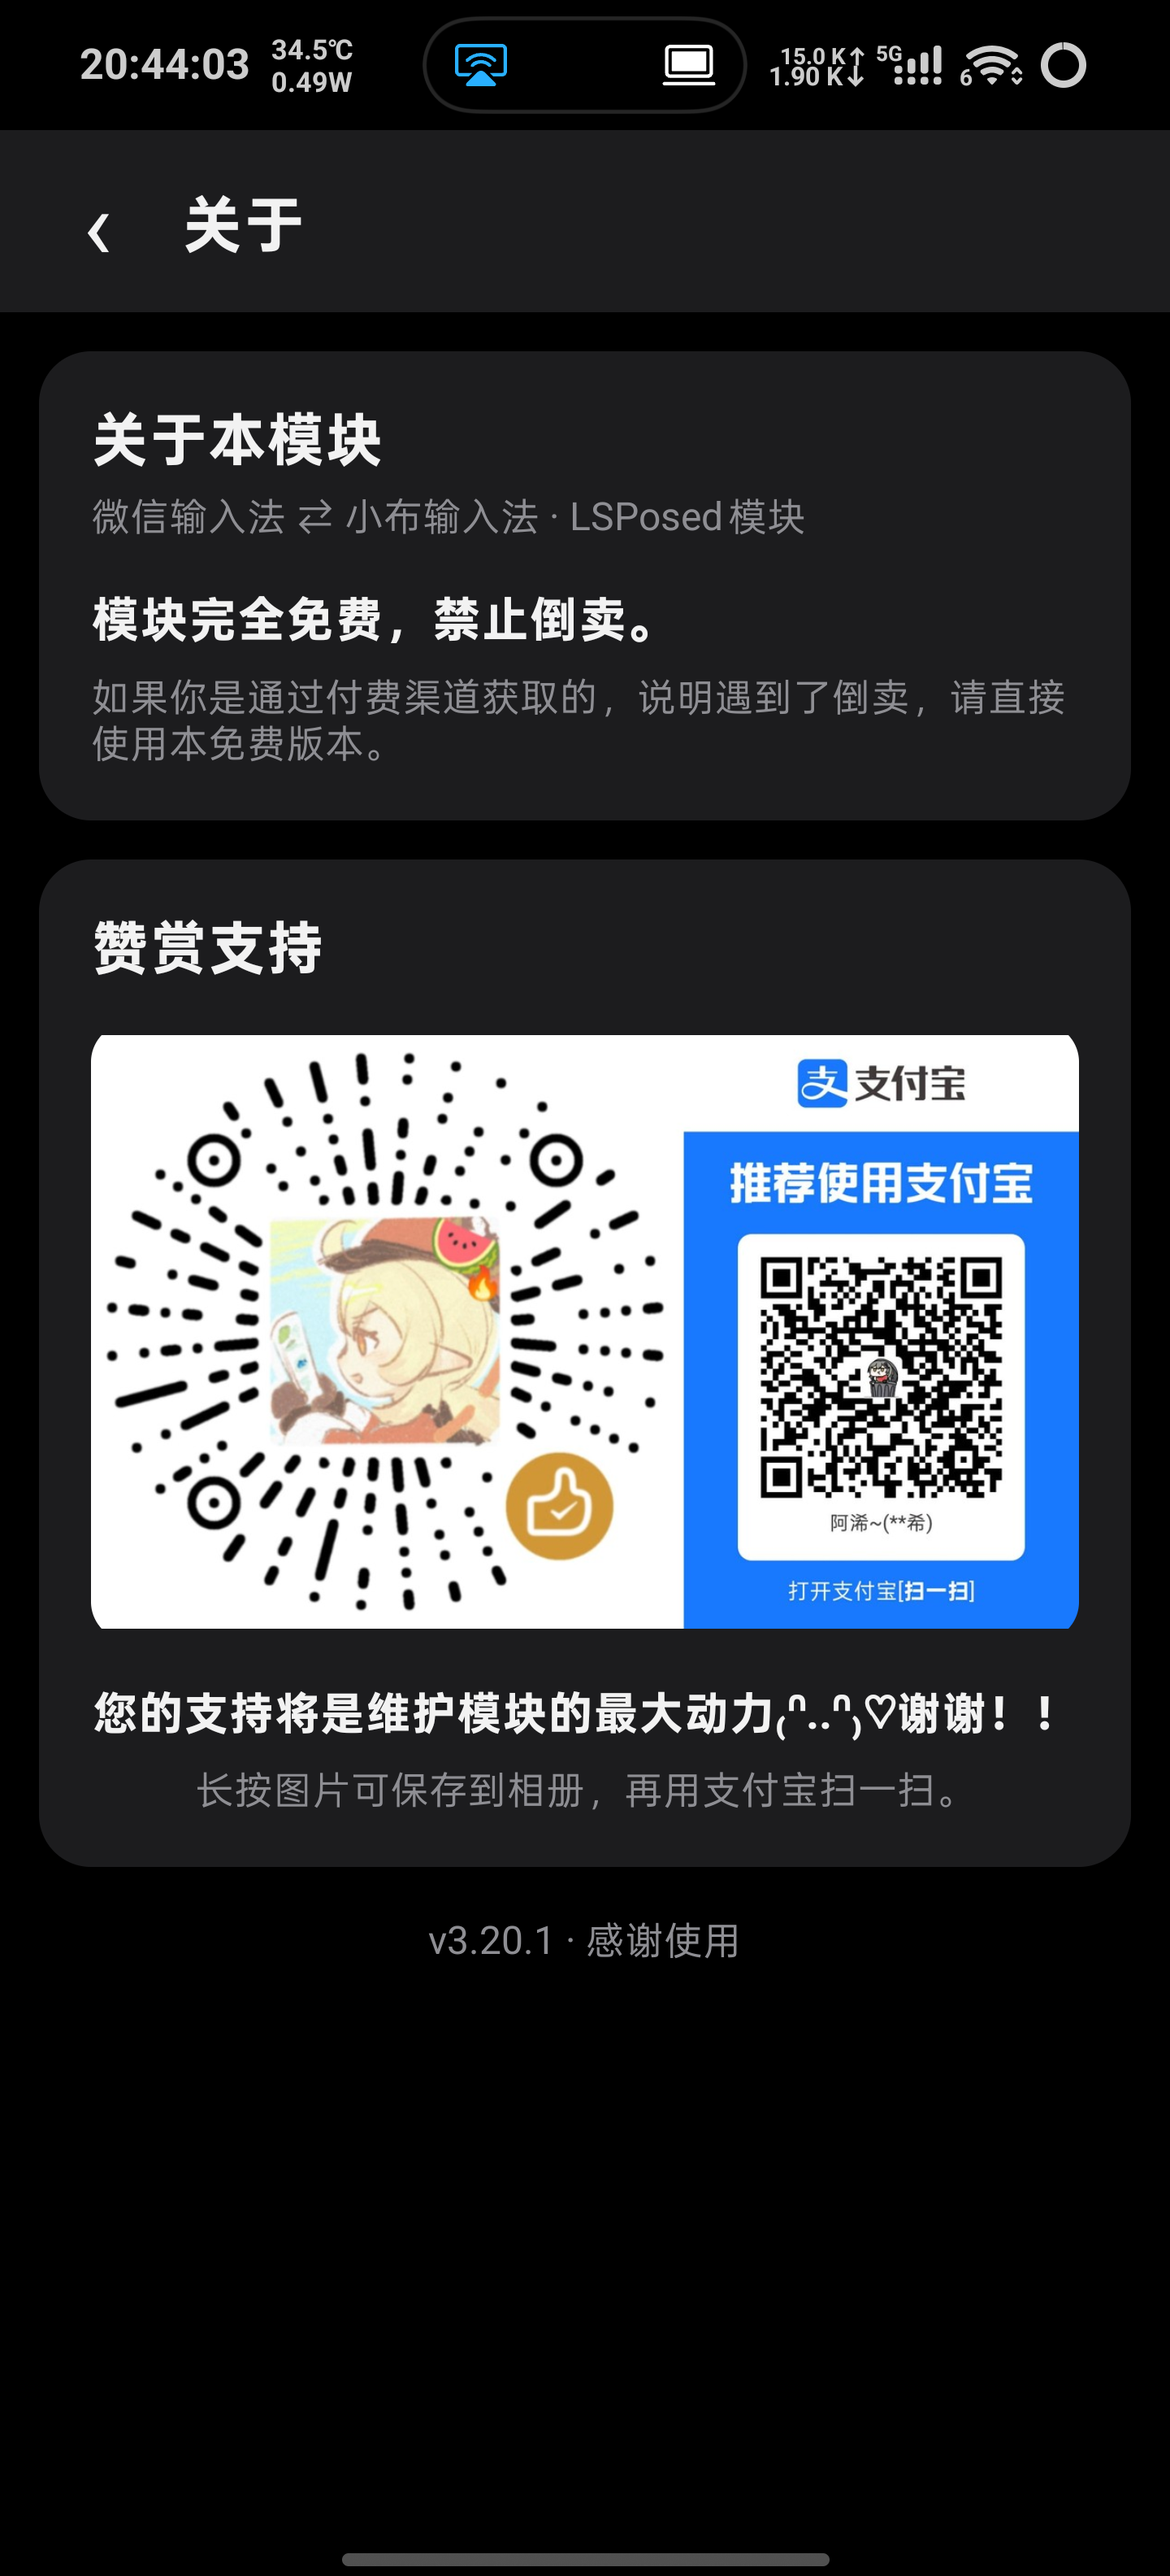
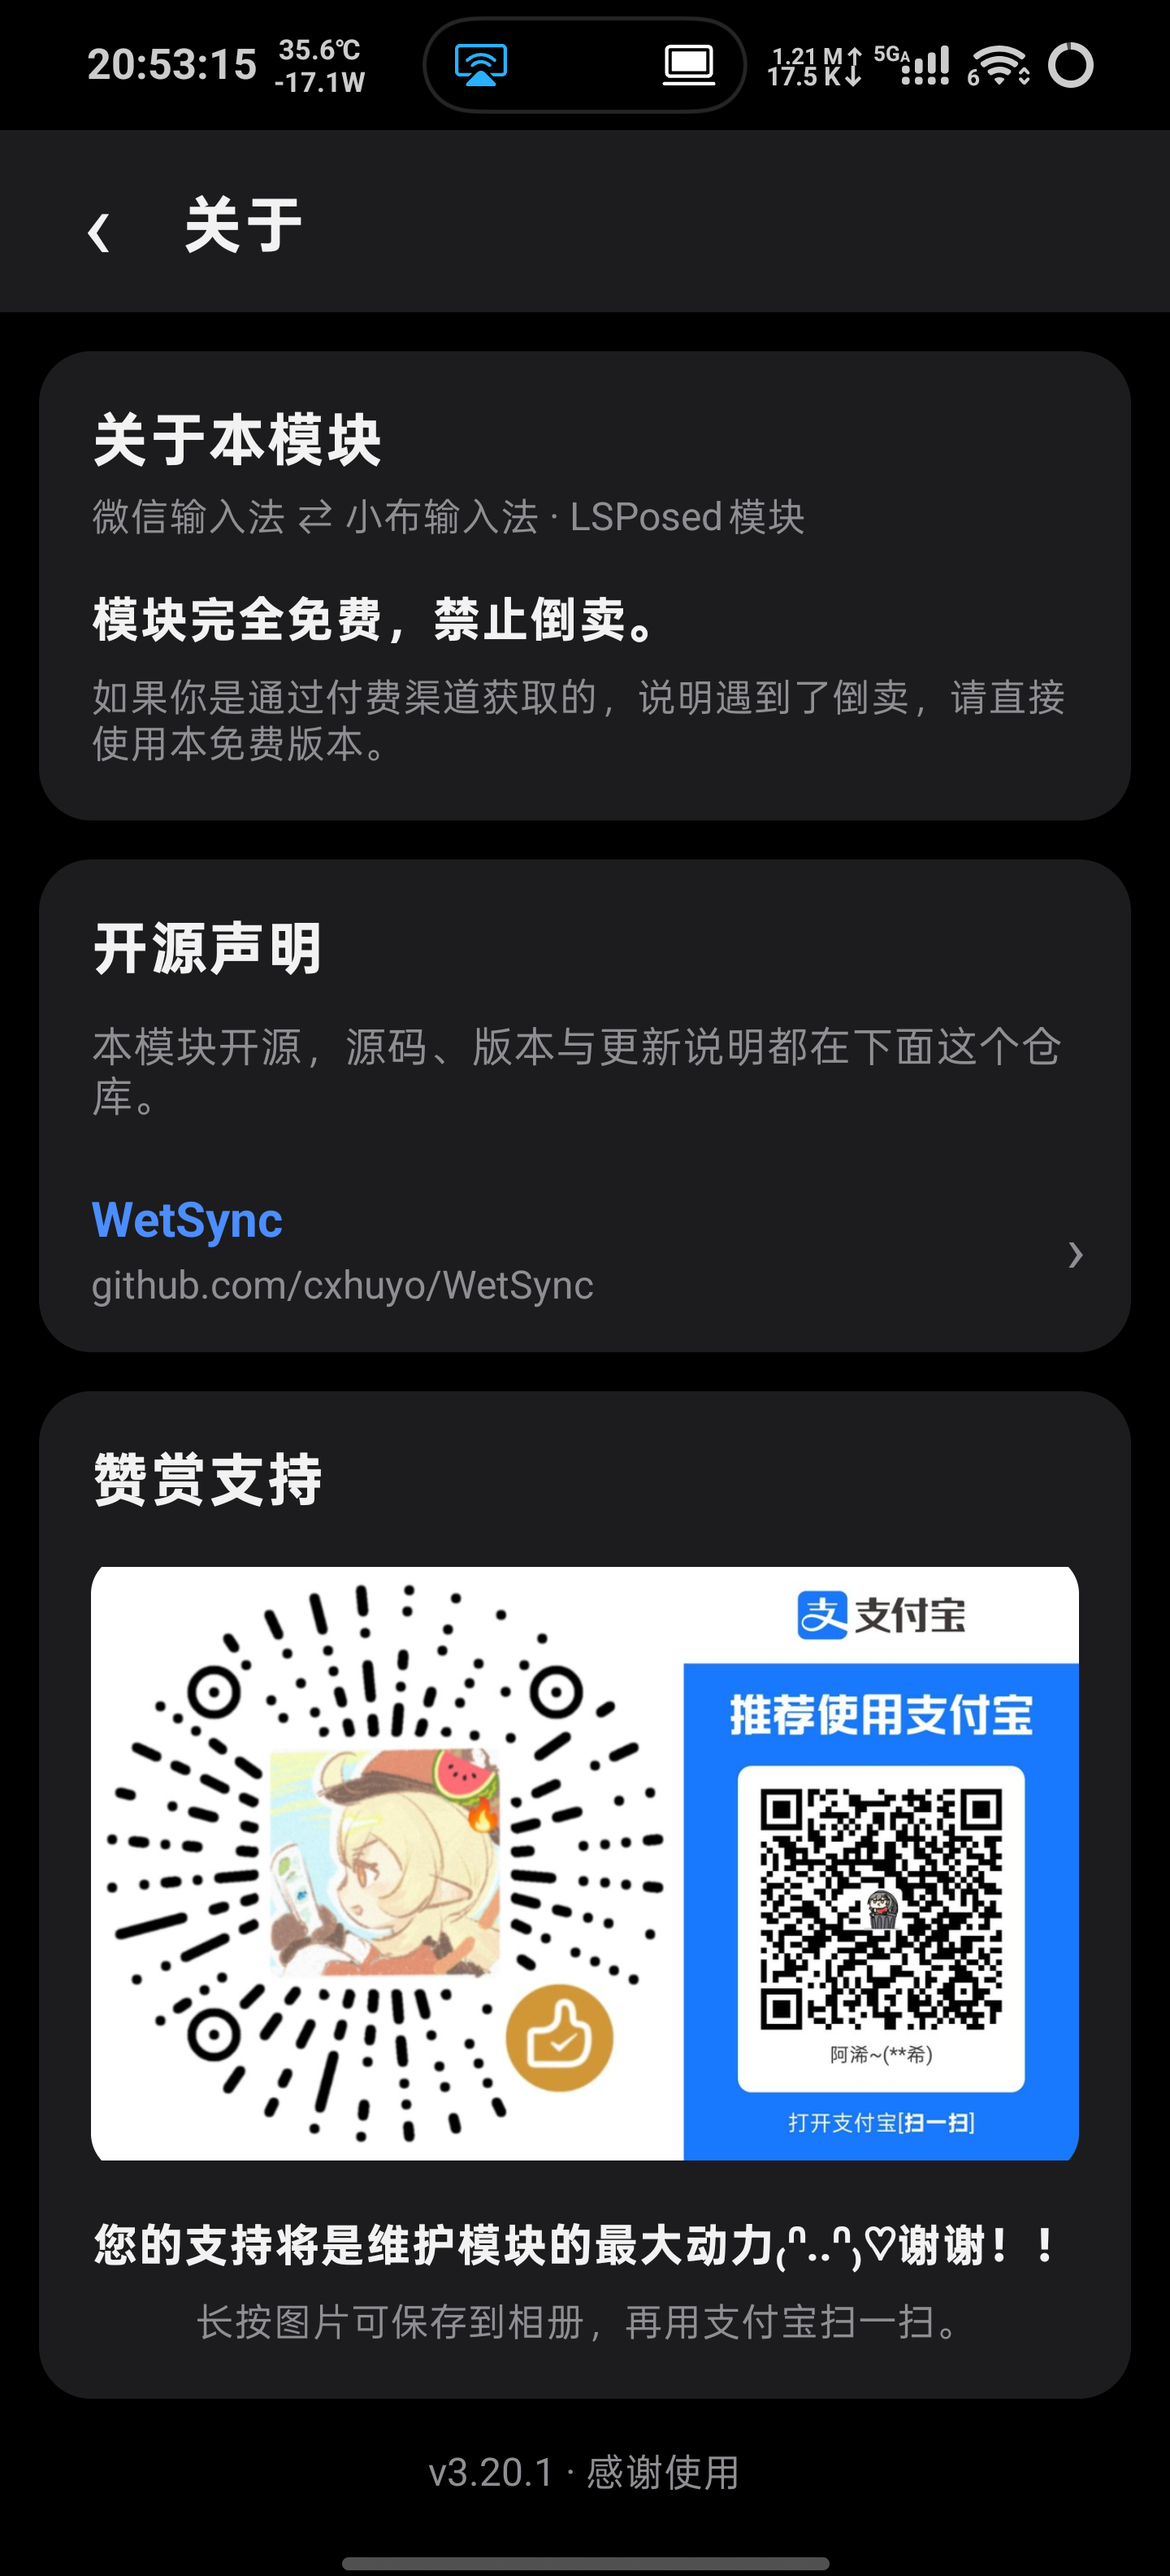
feat: 关于页补充开源声明卡片与仓库跳转，更新截图与文档

diff --git a/app/src/main/java/com/cxhuyo/wetsync/AboutActivity.java b/app/src/main/java/com/cxhuyo/wetsync/AboutActivity.java
@@ -1,11 +1,13 @@
 package com.cxhuyo.wetsync;
 
 import android.app.Activity;
+import android.content.Intent;
 import android.content.pm.PackageManager;
 import android.graphics.Insets;
 import android.graphics.Outline;
 import android.graphics.Typeface;
 import android.graphics.drawable.GradientDrawable;
+import android.net.Uri;
 import android.os.Build;
 import android.os.Bundle;
 import android.util.TypedValue;
@@ -19,6 +21,7 @@ import android.widget.ImageView;
 import android.widget.LinearLayout;
 import android.widget.ScrollView;
 import android.widget.TextView;
+import android.widget.Toast;
 
 /**
  * 独立的「关于」页面。
@@ -30,6 +33,10 @@ import android.widget.TextView;
  * 按本模块的 COUI 配色重绘，深色浅色都跟着系统走。
  */
 public final class AboutActivity extends Activity {
+
+    /** 开源声明地址 */
+    private static final String SOURCE_URL = "https://github.com/cxhuyo/WetSync";
+    private static final String SOURCE_LABEL = "github.com/cxhuyo/WetSync";
 
     private int cBg, cCard, cText, cSub, cDivider, cAccent;
 
@@ -77,6 +84,7 @@ public final class AboutActivity extends Activity {
         scroll.addView(content);
 
         content.addView(buildIntroCard());
+        content.addView(buildOriginCard());
         content.addView(buildDonateCard());
 
         TextView footer = text(versionLabel() + " · 感谢使用", 12, cSub);
@@ -129,6 +137,60 @@ public final class AboutActivity extends Activity {
         note.setPadding(dp(16), 0, dp(16), dp(16));
         card.addView(note);
         return card;
+    }
+
+    private View buildOriginCard() {
+        LinearLayout card = createCard("开源声明", null);
+        TextView note = text("本模块开源，源码、版本与更新说明都在下面这个仓库。",
+                13, cSub);
+        note.setPadding(dp(16), 0, dp(16), dp(6));
+        card.addView(note);
+        card.addView(linkRow("WetSync", SOURCE_LABEL, () -> openUrl(SOURCE_URL)));
+        return card;
+    }
+
+    private View linkRow(String title, String subtitle, Runnable action) {
+        LinearLayout row = horizontal();
+        row.setGravity(Gravity.CENTER_VERTICAL);
+        row.setPadding(dp(16), dp(13), dp(14), dp(13));
+        int ripple = selectableItemBackground();
+        if (ripple != 0) row.setBackgroundResource(ripple);
+
+        LinearLayout texts = vertical();
+        TextView name = text(title, 15, cAccent);
+        name.setTypeface(Typeface.DEFAULT_BOLD);
+        texts.addView(name);
+        if (subtitle != null && !subtitle.isEmpty()) {
+            TextView sub = text(subtitle, 12, cSub);
+            LinearLayout.LayoutParams subParams = wrap();
+            subParams.topMargin = dp(2);
+            texts.addView(sub, subParams);
+        }
+        row.addView(texts, new LinearLayout.LayoutParams(
+                0, ViewGroup.LayoutParams.WRAP_CONTENT, 1f));
+        row.addView(text("\u203a", 20, cSub));
+
+        row.setClickable(true);
+        row.setFocusable(false);
+        row.setOnClickListener(v -> action.run());
+        return row;
+    }
+
+    private int selectableItemBackground() {
+        TypedValue value = new TypedValue();
+        if (getTheme().resolveAttribute(android.R.attr.selectableItemBackground, value, true)
+                && value.resourceId != 0) {
+            return value.resourceId;
+        }
+        return 0;
+    }
+
+    private void openUrl(String url) {
+        try {
+            startActivity(new Intent(Intent.ACTION_VIEW, Uri.parse(url)));
+        } catch (Throwable t) {
+            Toast.makeText(this, "没有可以打开该链接的应用", Toast.LENGTH_SHORT).show();
+        }
     }
 
     private View buildDonateCard() {

diff --git a/CHANGELOG.md b/CHANGELOG.md
@@ -22,7 +22,8 @@
 - 「申请作用域」不再弹对话框：只发请求 + 一条 toast，授权结果由管理器通知承载。
 - 移除「同步引擎」一栏：状态卡片只保留模块状态与作用域，引擎内部状态不再暴露。
 - 模块主页底部新增固定提示「如何使用：小布输入法 → 输入法设置 → 跨设备同步」。
-- 新增独立「关于」页：模块说明、免费声明、赞赏支持、版本尾注；主页新增「关于」入口，
+- 新增独立「关于」页：模块说明、免费声明、开源声明（`github.com/cxhuyo/WetSync`）、
+  赞赏支持、版本尾注；主页新增「关于」入口，
   未读时带红点。
 - 首次安装、覆盖更新或重装后首次启动，会自动打开「关于」页（按 `lastUpdateTime` 判定）。
 - 修复「授权成功却提示失败」：管理器在作用域已存在时也会回调 `onScopeRequestFailed`，

diff --git a/README.md b/README.md
@@ -58,7 +58,8 @@ WetSync 是一个 LSPosed 模块：注入小布输入法进程，在它原生的
   <img src="docs/images/about.png" width="320" alt="关于页">
 </p>
 
-**关于页**（主页 → 关于）：模块说明与免费声明、赞赏支持、版本尾注。
+**关于页**（主页 → 关于）：模块说明与免费声明、开源声明（`github.com/cxhuyo/WetSync`）、
+赞赏支持、版本尾注。
 首次安装、覆盖更新或重装后的首次启动会自动打开；未读过时主页入口带红点。
 
 同步开关本身留在输入法里：**小布输入法 → 设置 → 跨设备同步**（跨设备复制粘贴、常用语、个人词库、我的设备、关联设备）。这些行由模块注入宿主设置页，控件和交互完全复用宿主的 COUI 组件。
